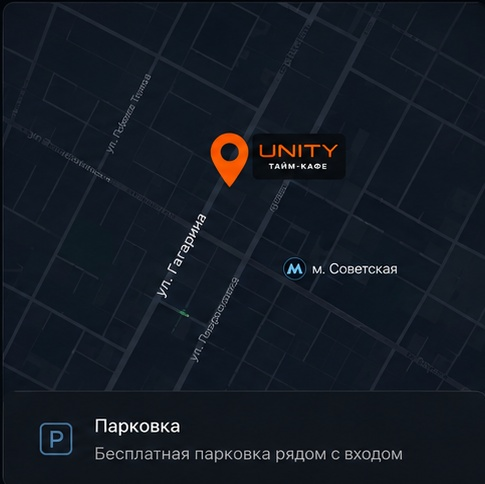
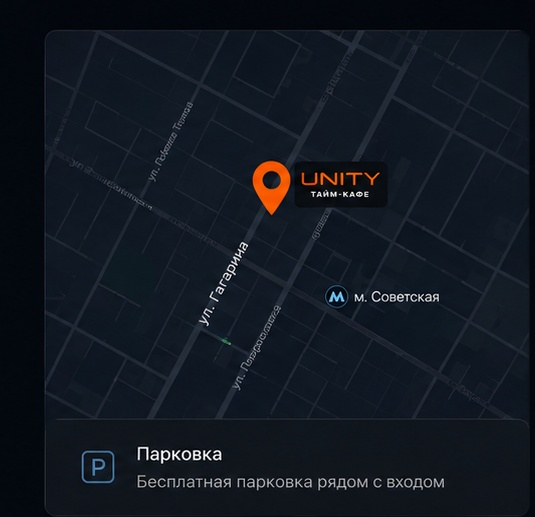
fix(pixel-perfect): hero photo overlays, pipe separators, contacts layout, remove duplicate parking badge, fix U neon symbol

diff --git a/src/components/HeroSection.tsx b/src/components/HeroSection.tsx
@@ -7,37 +7,39 @@ interface HeroSectionProps {
 
 export const HeroSection: React.FC<HeroSectionProps> = ({ onOpenBooking }) => {
   return (
-    <section id="hero" className="relative pt-28 pb-14 lg:pt-32 lg:pb-20 overflow-hidden text-left bg-[#0B0E14]">
+    <section id="hero" className="relative pt-20 pb-0 overflow-hidden text-left bg-[#0B0E14]">
       <div className="max-w-7xl mx-auto px-4 sm:px-6 lg:px-8">
         
-        {/* Main Grid: Left Copy + Right Visual */}
-        <div className="grid grid-cols-1 lg:grid-cols-12 gap-8 lg:gap-8 items-center">
+        {/* Main Grid: Left Copy + Right Visual — exact proportions from reference */}
+        <div className="grid grid-cols-1 lg:grid-cols-2 gap-10 lg:gap-12 items-center min-h-[520px]">
           
-          {/* Left Column (7 cols) */}
-          <div className="lg:col-span-7 space-y-6">
+          {/* Left Column */}
+          <div className="space-y-5 py-8">
             
             {/* Overline */}
-            <div className="text-xs sm:text-sm font-bold tracking-widest text-[#FF5500] uppercase">
+            <div className="text-xs font-bold tracking-[0.18em] text-[#FF5500] uppercase">
               UNITY — ТАЙМ-КАФЕ В САМАРЕ
             </div>
 
-            {/* H1 Headline */}
-            <h1 className="text-4xl sm:text-5xl lg:text-[54px] font-black text-white leading-[1.08] tracking-tight">
-              Место для игр, <br />
-              кино и встреч <br />
+            {/* H1 Headline — matches reference size/weight */}
+            <h1 className="text-[42px] sm:text-[52px] lg:text-[58px] font-black text-white leading-[1.05] tracking-tight">
+              Место для игр,<br />
+              кино и встреч<br />
               с друзьями <span className="text-[#FF5500]">в Самаре</span>
             </h1>
 
             {/* Subtitle */}
-            <p className="text-sm sm:text-base text-gray-300 leading-relaxed max-w-xl">
-              Уютное тайм-кафе в центре парка Дружба, рядом с м. Советская. PS5, бильярд, кинозал, настолки и комфортные комнаты для отдыха. Можно со своей едой и напитками — без пробкового сбора.
+            <p className="text-[15px] text-gray-300 leading-relaxed max-w-lg">
+              Уютное тайм-кафе в центре парка Дружба, рядом с м. Советская.<br />
+              PS5, бильярд, кинозал, настолки и комфортные комнаты для отдыха.<br />
+              Можно со своей едой и напитками — без пробкового сбора.
             </p>
 
-            {/* CTAs */}
-            <div className="flex flex-col sm:flex-row items-stretch sm:items-center gap-4 pt-2">
+            {/* CTAs — exact button shapes from reference */}
+            <div className="flex flex-col sm:flex-row items-stretch sm:items-center gap-3 pt-1">
               <button
                 onClick={onOpenBooking}
-                className="btn-primary px-8 py-3.5 text-sm sm:text-base font-bold flex items-center justify-center gap-2.5 shadow-glow-orange cursor-pointer"
+                className="btn-primary px-8 py-4 text-[15px] font-bold flex items-center justify-center gap-2.5 shadow-glow-orange cursor-pointer rounded-xl"
               >
                 <span>Забронировать</span>
                 <ArrowRight size={18} weight="bold" />
@@ -47,63 +49,86 @@ export const HeroSection: React.FC<HeroSectionProps> = ({ onOpenBooking }) => {
                 href="https://vk.com/unitysmr"
                 target="_blank"
                 rel="noopener noreferrer"
-                className="btn-secondary px-6 py-3.5 text-xs sm:text-sm font-semibold flex items-center justify-center gap-2.5"
+                className="btn-secondary px-6 py-4 text-[14px] font-semibold flex items-center justify-center gap-2.5 rounded-xl"
               >
-                <div className="w-5 h-5 rounded-full bg-[#2787F5] flex items-center justify-center text-[10px] font-black text-white">
+                <div className="w-6 h-6 rounded-full bg-[#2787F5] flex items-center justify-center text-[11px] font-black text-white flex-shrink-0">
                   VK
                 </div>
                 <span>Перейти во ВКонтакте</span>
               </a>
             </div>
 
-            {/* Value Indicators Strip */}
-            <div className="grid grid-cols-2 sm:grid-cols-4 gap-3 pt-6 border-t border-white/10 text-xs text-gray-300">
-              <div className="flex items-center gap-2">
-                <MapPin size={18} weight="fill" className="text-[#FF5500] flex-shrink-0" />
-                <span className="leading-tight">Самара,<br />ул. Гагарина, 118</span>
+            {/* Value strip — with pipe separators exactly as in reference */}
+            <div className="flex flex-wrap items-center gap-0 pt-5 border-t border-white/10 text-[13px] text-gray-300">
+              <div className="flex items-center gap-2 pr-5">
+                <MapPin size={16} weight="fill" className="text-[#FF5500] flex-shrink-0" />
+                <span>Самара, ул. Гагарина, 118</span>
               </div>
-              <div className="flex items-center gap-2">
-                <div className="w-4 h-4 rounded-full bg-cyan-500/20 text-cyan-400 font-bold flex items-center justify-center text-[10px] flex-shrink-0">
+              <div className="w-px h-7 bg-white/20 hidden sm:block" />
+              <div className="flex items-center gap-2 px-5">
+                <div className="w-[18px] h-[18px] rounded-full bg-[#0f8cff] text-white font-black flex items-center justify-center text-[9px] flex-shrink-0">
                   М
                 </div>
-                <span className="leading-tight">3 минуты<br />от м. Советская</span>
+                <span>3 минуты от м. Советская</span>
               </div>
-              <div className="flex items-center gap-2">
-                <Coffee size={18} weight="fill" className="text-amber-400 flex-shrink-0" />
-                <span className="leading-tight">Можно со своей<br />едой и напитками</span>
+              <div className="w-px h-7 bg-white/20 hidden sm:block" />
+              <div className="flex items-center gap-2 px-5">
+                <Coffee size={16} weight="fill" className="text-amber-400 flex-shrink-0" />
+                <span>Можно со своей едой и напитками</span>
               </div>
-              <div className="flex items-center gap-2">
-                <Star size={18} weight="fill" className="text-amber-400 flex-shrink-0" />
-                <span className="leading-tight">Рейтинг<br /><strong className="text-white">4.7</strong> на картах</span>
+              <div className="w-px h-7 bg-white/20 hidden sm:block" />
+              <div className="flex items-center gap-2 pl-5">
+                <Star size={16} weight="fill" className="text-amber-400 flex-shrink-0" />
+                <span>Рейтинг <strong className="text-white">4.7</strong></span>
               </div>
             </div>
 
           </div>
 
-          {/* Right Column: Hero Visual Container (Matching Ref Exactly) */}
-          <div className="lg:col-span-5">
-            <div className="relative rounded-3xl overflow-hidden border border-white/10 shadow-2xl bg-zinc-900 group">
+          {/* Right Column: Hero photo — no border card, just rounded image with overlays */}
+          <div className="relative h-full min-h-[400px] lg:min-h-[480px] flex items-center">
+            <div className="relative w-full rounded-2xl overflow-hidden shadow-2xl group">
               <img
                 src="/assets/ref/hero_main_lounge.jpg"
                 alt="Интерьер тайм-кафе UNITY Самара"
-                className="w-full h-auto object-cover transform group-hover:scale-105 transition-transform duration-700 aspect-[16/11]"
+                className="w-full h-full object-cover aspect-[16/11] lg:aspect-[4/3] transform group-hover:scale-[1.03] transition-transform duration-700"
               />
+              {/* Dark gradient overlay bottom */}
+              <div className="absolute inset-0 bg-gradient-to-t from-black/70 via-black/10 to-transparent pointer-events-none" />
+
+              {/* Bottom-left overlay badge: Парк Дружба — exactly as in reference */}
+              <div className="absolute bottom-4 left-4 flex flex-col gap-1">
+                <div className="text-[12px] font-semibold text-white/90">
+                  Парк «Дружба» · Самара
+                </div>
+                <div className="text-[11px] font-bold text-[#FF5500]">
+                  Открыто ежедневно до 06:00
+                </div>
+              </div>
+
+              {/* Bottom-right overlay badge: 0₽ Пробка — exactly as in reference */}
+              <div className="absolute bottom-4 right-4 bg-[#FF5500] text-white text-[11px] font-black px-3 py-1.5 rounded-lg shadow-lg">
+                0₽ Пробка
+              </div>
             </div>
           </div>
 
         </div>
 
-        {/* Under-Hero 3 Feature Cards (Matching Ref Exactly) */}
-        <div className="grid grid-cols-1 md:grid-cols-3 gap-5 mt-10">
+      </div>
+
+      {/* Under-Hero 3 Feature Cards — full width, dark, directly below */}
+      <div className="max-w-7xl mx-auto px-4 sm:px-6 lg:px-8 mt-8 pb-14">
+        <div className="grid grid-cols-1 md:grid-cols-3 gap-4">
           
           <div className="ref-card p-5 flex items-start gap-4">
             <div className="w-11 h-11 rounded-xl bg-[#FF5500]/15 flex items-center justify-center text-[#FF5500] flex-shrink-0">
               <GameController size={24} weight="fill" />
             </div>
             <div>
-              <h3 className="text-base font-bold text-white">Игры</h3>
-              <p className="text-xs text-gray-400 mt-0.5">
-                PS5, настолки и приставки для компаний
+              <h3 className="text-[15px] font-bold text-white">Игры</h3>
+              <p className="text-[13px] text-gray-400 mt-0.5">
+                PS5, настолки и приставки
               </p>
             </div>
           </div>
@@ -113,9 +138,9 @@ export const HeroSection: React.FC<HeroSectionProps> = ({ onOpenBooking }) => {
               <FilmStrip size={24} weight="fill" />
             </div>
             <div>
-              <h3 className="text-base font-bold text-white">Кинозал</h3>
-              <p className="text-xs text-gray-400 mt-0.5">
-                Большой экран и комфорт для киноночей
+              <h3 className="text-[15px] font-bold text-white">Кинозал</h3>
+              <p className="text-[13px] text-gray-400 mt-0.5">
+                Большой экран и комфорт
               </p>
             </div>
           </div>
@@ -125,15 +150,14 @@ export const HeroSection: React.FC<HeroSectionProps> = ({ onOpenBooking }) => {
               <Users size={24} weight="fill" />
             </div>
             <div>
-              <h3 className="text-base font-bold text-white">Компаниям и праздникам</h3>
-              <p className="text-xs text-gray-400 mt-0.5">
+              <h3 className="text-[15px] font-bold text-white">Компаниям и праздникам</h3>
+              <p className="text-[13px] text-gray-400 mt-0.5">
                 Отдыхайте вместе
               </p>
             </div>
           </div>
 
         </div>
-
       </div>
     </section>
   );

diff --git a/src/components/ContactsSection.tsx b/src/components/ContactsSection.tsx
@@ -28,35 +28,38 @@ export const ContactsSection: React.FC<ContactsSectionProps> = ({ onOpenBooking 
   ];
 
   return (
-    <section id="contacts" className="py-20 relative bg-[#090C10] border-t border-white/5 text-left">
+    <section id="contacts" className="py-16 relative bg-[#090C10] border-t border-white/5 text-left">
       <div className="max-w-7xl mx-auto px-4 sm:px-6 lg:px-8">
         
-        {/* Section Header */}
-        <div className="mb-12">
-          <div className="text-xs sm:text-sm font-bold tracking-widest text-[#FF5500] uppercase mb-2">
-            UNITY — КОНТАКТЫ
-          </div>
-          <h2 className="text-3xl sm:text-4xl lg:text-5xl font-black text-white leading-tight">
-            Как нас найти <br />
-            <span className="text-[#FF5500]">и забронировать</span>
-          </h2>
+        {/* Overline above everything */}
+        <div className="text-xs font-bold tracking-[0.18em] text-[#FF5500] uppercase mb-3">
+          UNITY — КОНТАКТЫ
         </div>
 
-        {/* Top 3 Columns: Contacts List + Map Card + Facade Photo */}
-        <div className="grid grid-cols-1 lg:grid-cols-12 gap-6 items-stretch mb-10">
+        {/* Top 3 Columns: Left=Header+Contacts, Middle=Map, Right=Facade — exactly as in reference */}
+        <div className="grid grid-cols-1 lg:grid-cols-12 gap-6 items-stretch mb-8">
           
-          {/* Col 1: Contacts List (4 cols) */}
-          <div className="lg:col-span-4 ref-card p-6 flex flex-col justify-between space-y-4">
+          {/* Col 1: Title + Contacts List (4 cols) — no card border, just plain list */}
+          <div className="lg:col-span-4 flex flex-col justify-between">
             
-            <div className="space-y-4">
+            {/* Title inline with this column — matches reference where title is top-left */}
+            <div className="mb-6">
+              <h2 className="text-3xl sm:text-4xl lg:text-[44px] font-black text-white leading-[1.06]">
+                Как нас найти<br />
+                <span className="text-[#FF5500]">и забронировать</span>
+              </h2>
+            </div>
+
+            {/* Contacts list — no card, plain icon + text */}
+            <div className="flex flex-col gap-5 flex-grow">
               {/* Address */}
               <div className="flex items-start gap-3.5">
                 <div className="w-8 h-8 rounded-lg bg-[#FF5500]/15 flex items-center justify-center text-[#FF5500] flex-shrink-0 mt-0.5">
                   <MapPin size={18} weight="fill" />
                 </div>
                 <div>
-                  <div className="text-xs font-bold text-gray-400">Адрес</div>
-                  <div className="text-sm font-bold text-white">Самара, ул. Гагарина, 118</div>
+                  <div className="text-xs font-semibold text-gray-400">Адрес</div>
+                  <div className="text-[15px] font-bold text-white">Самара, ул. Гагарина, 118</div>
                 </div>
               </div>
 
@@ -66,8 +69,8 @@ export const ContactsSection: React.FC<ContactsSectionProps> = ({ onOpenBooking 
                   <Train size={18} weight="fill" />
                 </div>
                 <div>
-                  <div className="text-xs font-bold text-gray-400">Ближайшее метро</div>
-                  <div className="text-sm font-bold text-white">м. Советская — 3 минуты пешком</div>
+                  <div className="text-xs font-semibold text-gray-400">Ближайшее метро</div>
+                  <div className="text-[15px] font-bold text-white">м. Советская — 3 минуты пешком</div>
                 </div>
               </div>
 
@@ -77,8 +80,8 @@ export const ContactsSection: React.FC<ContactsSectionProps> = ({ onOpenBooking 
                   <NavigationArrow size={18} weight="fill" />
                 </div>
                 <div>
-                  <div className="text-xs font-bold text-gray-400">Как добраться</div>
-                  <div className="text-xs text-gray-300 leading-relaxed">Легко добраться на метро, автобусе или автомобиле. Рядом есть парковка.</div>
+                  <div className="text-xs font-semibold text-gray-400">Как добраться</div>
+                  <div className="text-[13px] text-gray-300 leading-relaxed">Легко добраться на метро, автобусе<br />или автомобиле. Рядом есть парковка.</div>
                 </div>
               </div>
 
@@ -88,56 +91,44 @@ export const ContactsSection: React.FC<ContactsSectionProps> = ({ onOpenBooking 
                   <Clock size={18} weight="fill" />
                 </div>
                 <div>
-                  <div className="text-xs font-bold text-gray-400">Часы работы</div>
-                  <div className="text-sm font-bold text-white">Ежедневно с 12:00 до 06:00</div>
+                  <div className="text-xs font-semibold text-gray-400">Часы работы</div>
+                  <div className="text-[15px] font-bold text-white">Ежедневно с 12:00 до 06:00</div>
                 </div>
               </div>
-            </div>
 
-            {/* Phone */}
-            <div className="pt-4 border-t border-white/10 flex items-center gap-3.5">
-              <div className="w-8 h-8 rounded-lg bg-emerald-500/15 flex items-center justify-center text-emerald-400 flex-shrink-0">
-                <Phone size={18} weight="fill" />
-              </div>
-              <div>
-                <div className="text-xs font-bold text-gray-400">Телефон</div>
-                <a href="tel:+79879500018" className="text-sm font-bold text-white hover:text-[#FF5500] transition-colors">
-                  +7 (987) 950-00-18
-                </a>
+              {/* Phone */}
+              <div className="flex items-start gap-3.5">
+                <div className="w-8 h-8 rounded-lg bg-emerald-500/15 flex items-center justify-center text-emerald-400 flex-shrink-0 mt-0.5">
+                  <Phone size={18} weight="fill" />
+                </div>
+                <div>
+                  <div className="text-xs font-semibold text-gray-400">Телефон</div>
+                  <a href="tel:+79879500018" className="text-[15px] font-bold text-white hover:text-[#FF5500] transition-colors">
+                    +7 (987) 950-00-18
+                  </a>
+                </div>
               </div>
             </div>
 
           </div>
 
           {/* Col 2: Map Card (4 cols) */}
-          <div className="lg:col-span-4 ref-card overflow-hidden flex flex-col justify-between relative group">
-            <div className="relative aspect-[4/3] sm:aspect-auto flex-grow bg-zinc-900 overflow-hidden">
-              <img
-                src="/assets/ref/map_park_druzhba.jpg"
-                alt="Карта парка Дружба Самара"
-                className="w-full h-full object-cover group-hover:scale-105 transition-transform duration-500"
-              />
-            </div>
-
-            <div className="p-3.5 bg-[#121824] border-t border-white/10 flex items-center gap-3">
-              <div className="w-7 h-7 rounded-lg bg-blue-500/20 text-blue-400 font-bold flex items-center justify-center text-xs flex-shrink-0">
-                P
-              </div>
-              <div>
-                <div className="text-xs font-bold text-white">Парковка</div>
-                <div className="text-[11px] text-gray-400">Бесплатная парковка рядом с входом</div>
-              </div>
-            </div>
+          <div className="lg:col-span-4 ref-card overflow-hidden group">
+            <img
+              src="/assets/ref/map_park_druzhba.jpg"
+              alt="Карта парка Дружба Самара"
+              className="w-full h-full object-cover object-center group-hover:scale-105 transition-transform duration-500 min-h-[300px]"
+            />
           </div>
 
-          {/* Col 3: Facade Photo with Glowing Neon (4 cols) */}
+          {/* Col 3: Facade Photo (4 cols) */}
           <div className="lg:col-span-4 ref-card overflow-hidden relative group">
             <img
               src="/assets/ref/facade_night_neon.jpg"
               alt="Вход в UNITY Самара ночью"
-              className="w-full h-full object-cover group-hover:scale-105 transition-transform duration-500 min-h-[260px]"
+              className="w-full h-full object-cover group-hover:scale-105 transition-transform duration-500 min-h-[300px]"
             />
-            <div className="absolute inset-0 bg-gradient-to-t from-[#0B0E14]/80 via-transparent to-transparent pointer-events-none" />
+            <div className="absolute inset-0 bg-gradient-to-t from-[#0B0E14]/60 via-transparent to-transparent pointer-events-none" />
           </div>
 
         </div>
@@ -170,20 +161,22 @@ export const ContactsSection: React.FC<ContactsSectionProps> = ({ onOpenBooking 
             })}
           </div>
 
-          {/* Booking Callout Card (6 cols matching reference with Glowing Neon 'U') */}
-          <div className="lg:col-span-6 ref-card p-6 sm:p-8 flex flex-col justify-between relative overflow-hidden border-[#FF5500]/40 shadow-[0_0_35px_rgba(255,85,0,0.15)]">
+          {/* Booking Callout Card — matches reference: large U neon on the right */}
+          <div className="lg:col-span-6 ref-card p-6 sm:p-8 flex flex-col justify-between relative overflow-hidden border-[#FF5500]/40 shadow-[0_0_40px_rgba(255,85,0,0.2)]">
             
-            <div className="relative z-10">
-              <h3 className="text-2xl font-black text-white mb-2">
-                Забронируйте стол заранее
+            <div className="relative z-10 max-w-[55%]">
+              <h3 className="text-2xl sm:text-[26px] font-black text-white mb-2 leading-tight">
+                Забронируйте<br />стол заранее
               </h3>
-              <p className="text-xs sm:text-sm text-gray-300 max-w-md leading-relaxed">
+              <p className="text-[13px] text-gray-300 leading-relaxed">
                 Мы поможем подобрать удобное время и зону для вашей компании.
               </p>
             </div>
 
-            {/* Glowing Neon 'U' Symbol */}
-            <div className="absolute right-6 top-6 w-24 h-28 border-4 border-[#FF5500] rounded-b-[40px] opacity-70 shadow-[0_0_25px_#FF5500] pointer-events-none hidden sm:block" />
+            {/* Large Glowing Neon 'U' Symbol — single div with borders, properly curved */}
+            <div className="absolute right-6 top-1/2 -translate-y-1/2 pointer-events-none hidden sm:block">
+              <div className="w-28 h-36 border-l-[5px] border-r-[5px] border-b-[5px] border-t-0 border-[#FF5500] rounded-b-[50px] shadow-[0_0_30px_8px_rgba(255,85,0,0.6),inset_0_0_20px_rgba(255,85,0,0.15)]" />
+            </div>
 
             <div className="space-y-3 pt-6 relative z-10">
               <button
